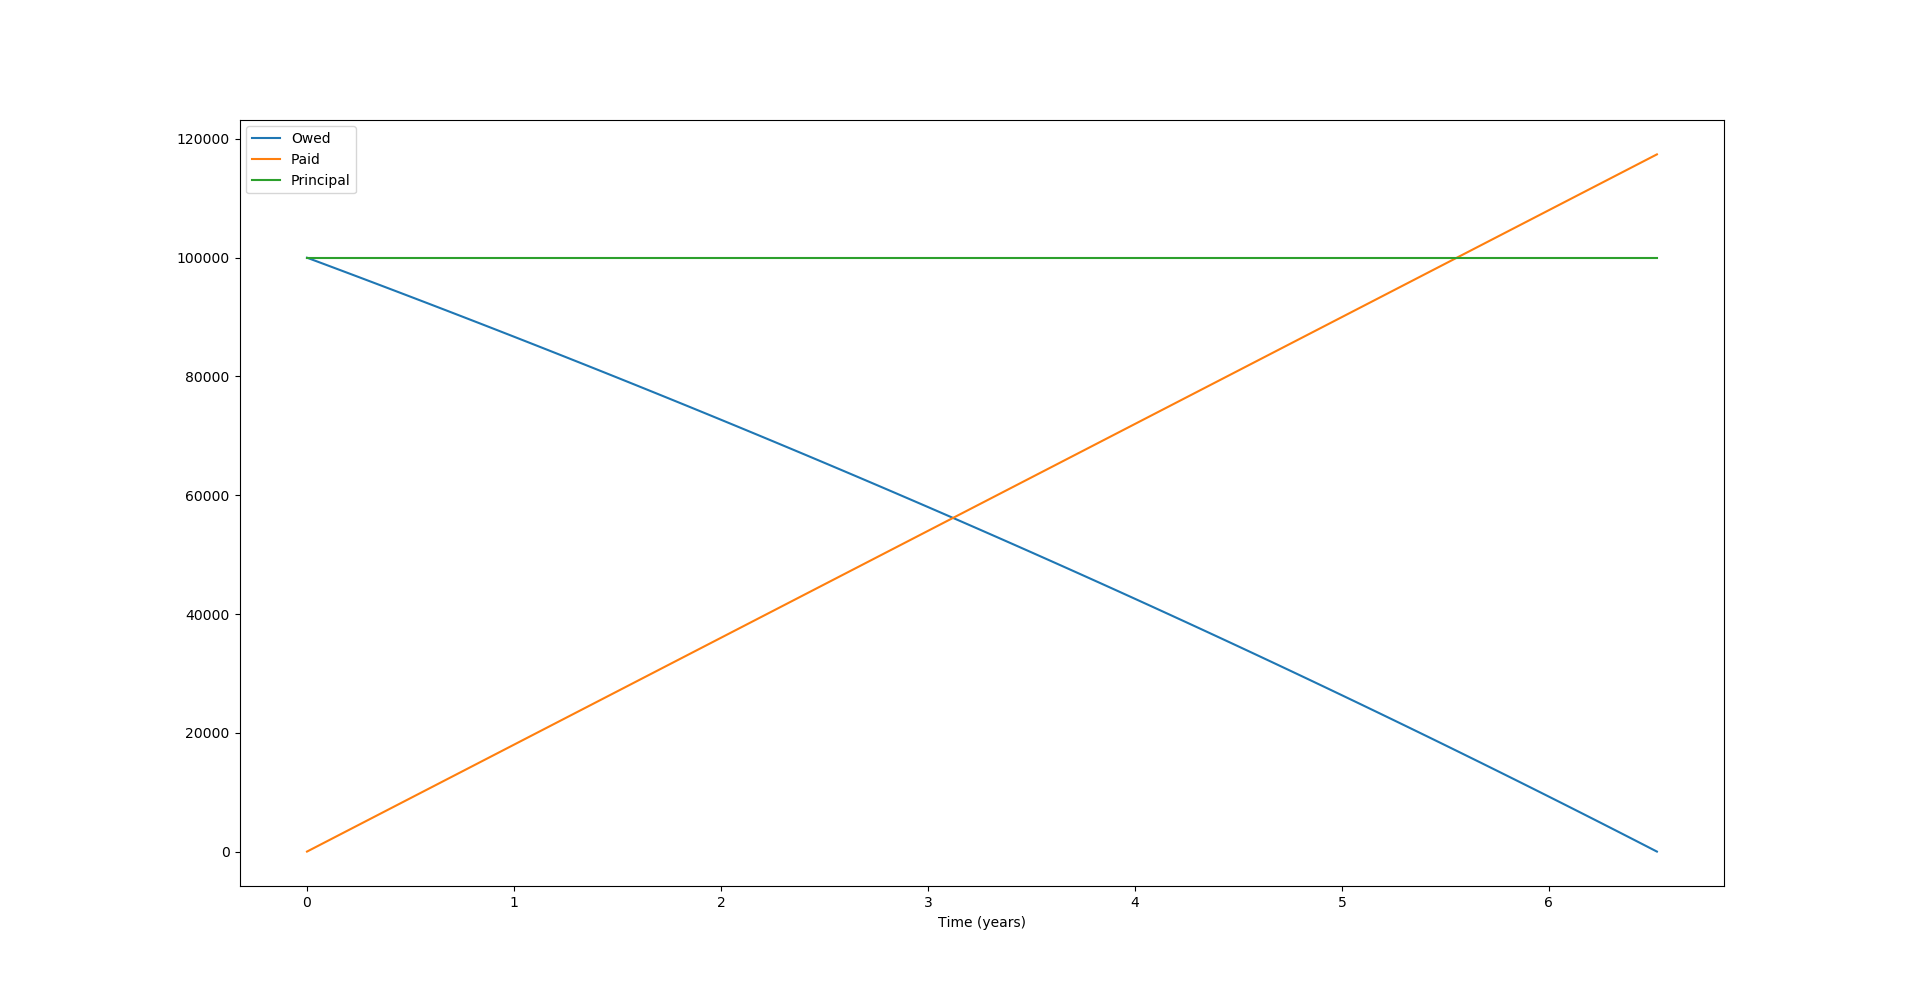
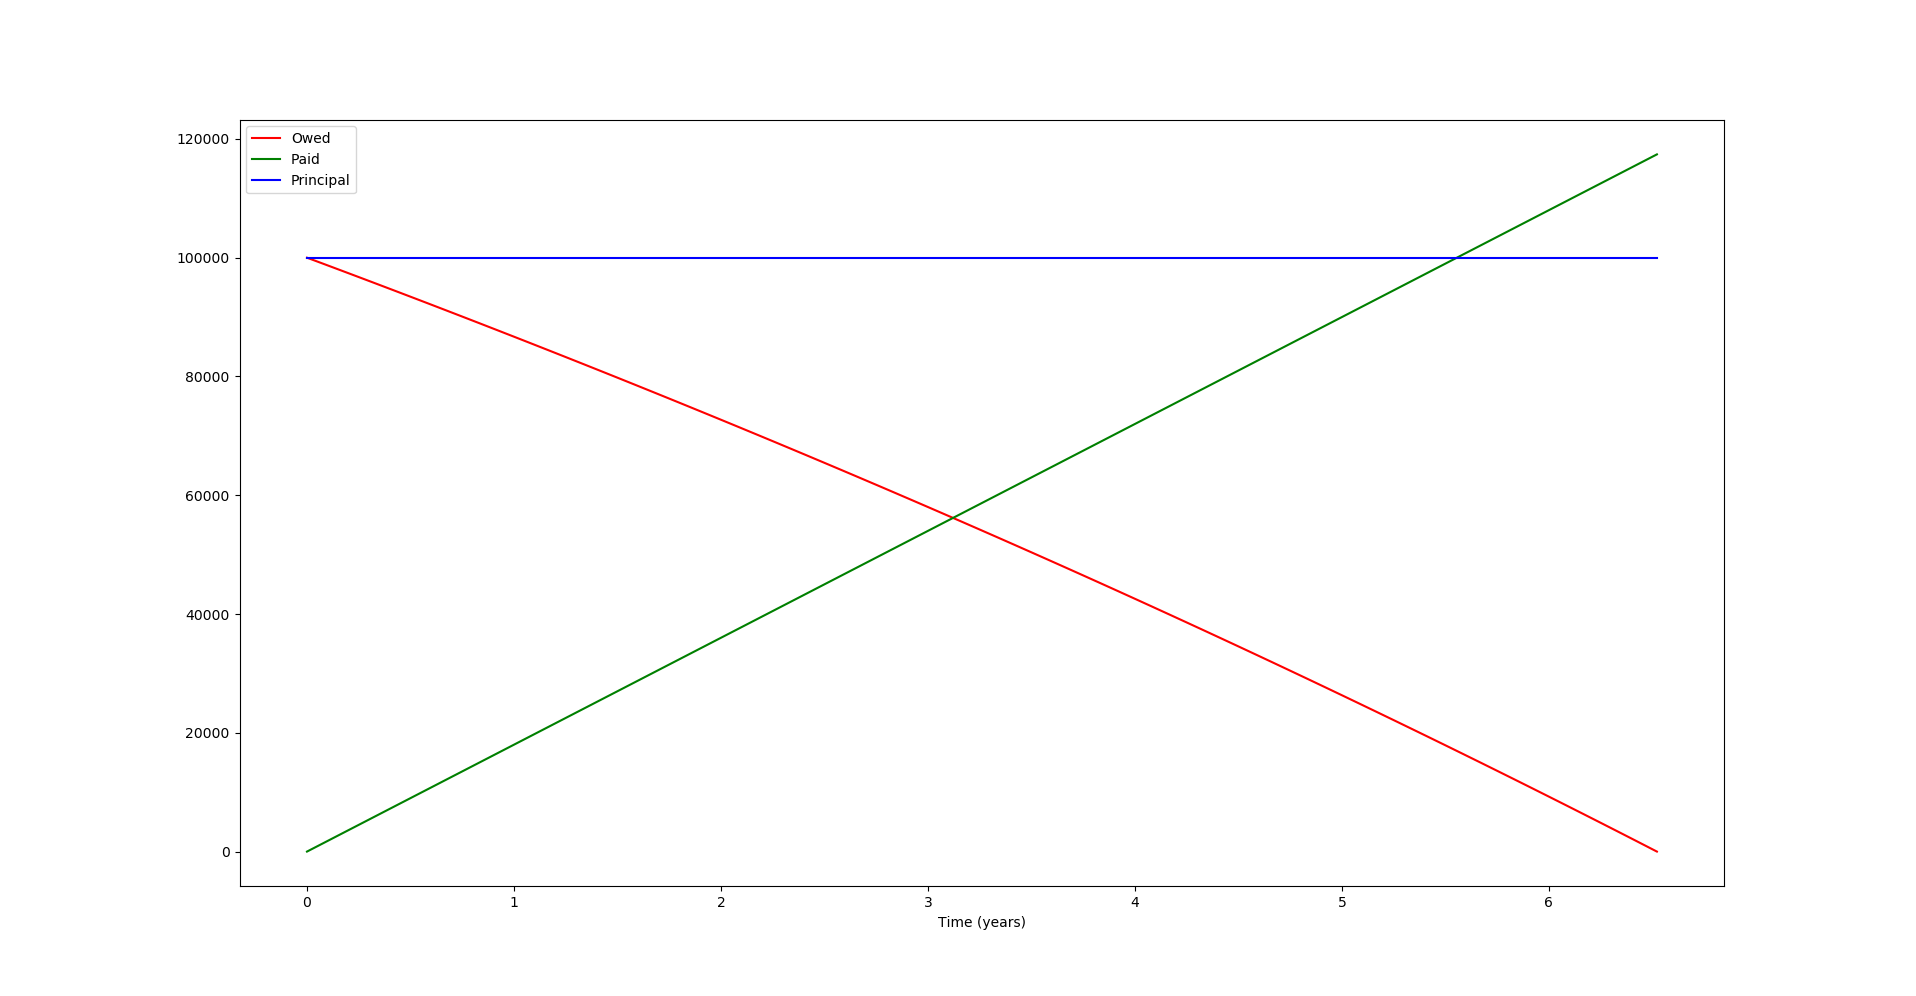
Add total amount paid by time period to graph.

diff --git a/compute_payments.py b/compute_payments.py
@@ -70,11 +70,24 @@ print("Recommended minimum payment is {:.2f} for {:.2f} years for a total of {:.
 
 if args.graph:
     timeUpper = math.ceil(args.freq*args.time) + 1
-    timeLower = max(1, timeUpper//8)
+    timeLower = args.freq if args.time > 1.0 else 1
     time = [t/args.freq for t in range(timeLower, timeUpper)]
     payment = [paymentNeeded(args.principal, args.interest, args.freq, t) for t in time]
+    paid = [args.freq*t*p for (t, p) in zip(time, payment)]
 
-    plt.plot(time, payment)
-    plt.xlabel("Time to pay off debt (years)")
-    plt.ylabel("Amount paid per period")
+    fig = plt.figure()
+    ax1 = fig.add_subplot(111)
+    ax2 = ax1.twinx()
+
+    l1 = "Amount paid per period"
+    l2 = "Total amount paid"
+
+    ax1.plot(time, payment, color="blue", label=l1)
+    ax2.plot(time, paid, color="red", label=l2)
+
+    ax1.set_xlabel("Time to pay off debt (years)")
+    ax1.set_ylabel(l1)
+    ax2.set_ylabel(l2)
+    fig.legend()
+
     plt.show()

diff --git a/compound_interest.py b/compound_interest.py
@@ -53,9 +53,9 @@ print("Total paid is {:.2f}, which is a {:.2f}% return on investment for lender.
     paid[-1], (paid[-1] - args.principal)/args.principal*100))
 
 if args.graph:
-    plt.plot(time, owed)
-    plt.plot(time, paid)
-    plt.plot(time, len(time)*[args.principal])
+    plt.plot(time, owed, color="red")
+    plt.plot(time, paid, color="green")
+    plt.plot(time, len(time)*[args.principal], color="blue")
 
     plt.legend(["Owed", "Paid", "Principal"])
     plt.xlabel("Time (years)")

diff --git a/README.md b/README.md
@@ -45,7 +45,7 @@ For example, taking the above mortgage we could decide to pay $1,500 a month.
 The tool can be ran as
 
 ```
-> python compound_interest.py 100000 0.05 12 1500
+> ./compound_interest.py 100000 0.05 12 1500
 Will take 6.52 years to pay off.
 Total paid is 117395.96, which is a 17.40% return on investment for lender.
 ```
